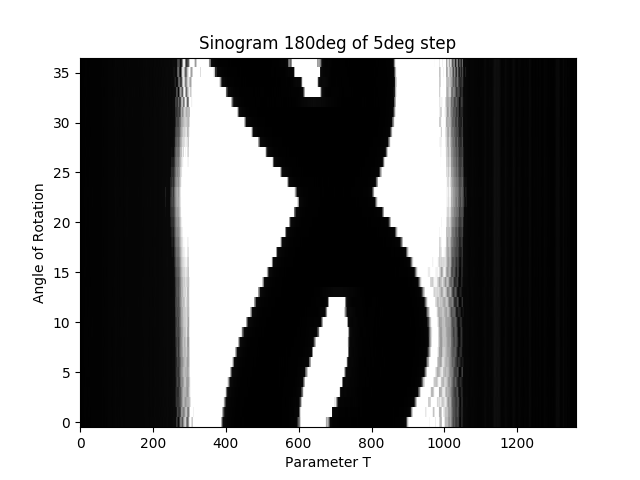
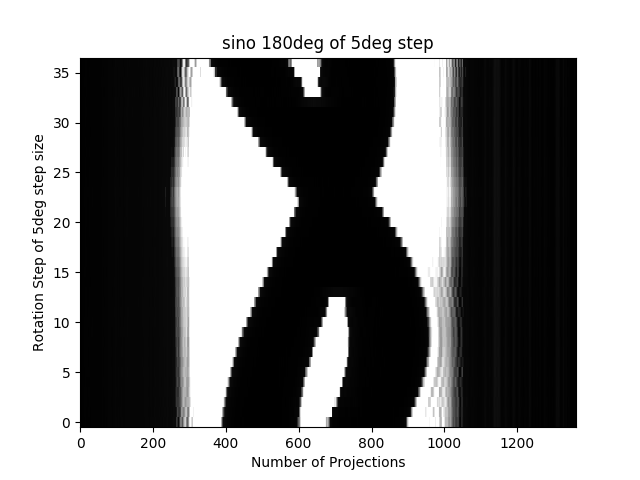
Changed filter

Changed region(s): [[0.3125, 0.0625, 0.7188, 0.125], [0.0312, 0.2812, 0.0938, 0.75], [0.375, 0.9375, 0.625, 1.0]]

diff --git a/sinogram_plot.py b/sinogram_plot.py
@@ -13,7 +13,7 @@ def add_noise(sinogram, mean, std_dev, reduce_dose):
 
 	return noisy_image
 
-def filtered_sino(sinogram, param_a, _bool_plot):
+def filtered_sino(sinogram, param_a):
 	# Function to remove high frequency noise from the sinogram
 	# returns a sinogram [n x m]
 
@@ -23,10 +23,10 @@ def filtered_sino(sinogram, param_a, _bool_plot):
 	# ramp filter
 	step_size = 2*np.pi/sinogram.shape[0]
 	w = np.arange(-np.pi, np.pi, step_size)
-	ramp_filter = abs(2/a*np.sin(a*w/2))
+	#ramp_filter = abs(2/a*np.sin(a*w/2))
 	# sinc filter
 	sinc_filter = np.sin(a*w/2)/(a*w/2) 
-	filter_proj = ramp_filter * sinc_filter**2
+	filter_proj = 2*sinc_filter - sinc_filter**2
 
 	fourier_filt = fftshift(filter_proj)
 	for i in range(sinogram.shape[1]):
@@ -34,16 +34,9 @@ def filtered_sino(sinogram, param_a, _bool_plot):
 		temp_sino = fourier_sino * fourier_filt
 		filt_sino[:,i] = np.real(ifft(temp_sino))
 
-	if _bool_plot == True:
-		plt.imshow(filt_sino.T, cmap='gray', aspect='auto', origin = 'lower')
-		plt.title('Filtered Sinogram Image')
-		plt.xlabel('Number of Projections')
-		plt.ylabel('Angle of Rotation')
-		plt.show()
-
 	return filt_sino
 
-def back_proj(sinogram, theta, _bool_plot):
+def back_proj(sinogram, theta):
 	# Function to produce a backprojection image from the sinogram given at the angle theta
 	# Returns an matrix [n x n]
 	theta_rad = theta*np.pi/180 #np.cos/sin only accepts rads
@@ -69,26 +62,19 @@ def back_proj(sinogram, theta, _bool_plot):
 	temp_sino = sinogram[:,theta]
 
 	back_proj_image[x0, y0] = temp_sino[l_rot[x0, y0]]
-	
-	if _bool_plot == True:
-		# print(back_proj_image)
-		plt.imshow(back_proj_image, cmap='gray', aspect='auto', origin = 'lower')
-		plt.title('Back Proj Image at degree')
-		plt.xlabel('Number of Projections')
-		plt.ylabel('Angle of Rotation')
-		plt.show()
+
 	return back_proj_image
 
-def recon_back_proj(sinogram, angles):
+def recon_back_proj(sinogram, num_rotations):
 	# Reconstructs the original image from all the backprojection images 
 	# Returns an matrix [n x n]
 	length = sinogram.shape[0]
 	recon_matrix = np.zeros((length, length))
 
-	if angles > sinogram.shape[1]:
+	if num_rotations > sinogram.shape[1]:
 		num_angles = sinogram.shape[1]
 	else:
-		num_angles = angles
+		num_angles = num_rotations
 
 	for theta in range(num_angles):
 		proj_image = back_proj(sinogram, theta, 0)
@@ -111,7 +97,7 @@ sino_360_5 = np.loadtxt("360_5.txt", dtype='f', delimiter = '\t')
 
 sino_1 = plt.imread("sino1.bmp")
 
-
+'''
 recon_back_proj(sino_1, 180)
 
 sino_1_noise1 = add_noise(sino_1, 0, 1, 1)
@@ -148,7 +134,7 @@ plt.title('sino1 with added noise')
 plt.xlabel('Number of Projections')
 plt.ylabel('Angle of Rotation')
 plt.show()
-
+'''
 
 #print(sino_90_1)
 #print(sino_90_5)
@@ -156,27 +142,27 @@ plt.show()
 #print(sino_360_1)
 #print(sino_360_5)
 
-'''
+
 # Transpose the dataset so that degrees is the y-axis and intensity? is the x-axis
-plt.imshow(sino_360_1.T, cmap='gray', aspect='auto', origin = 'lower')
-plt.title('sino 90deg of 1deg step')
+plt.imshow(sino_360_5.T, cmap='gray', aspect='auto', origin = 'lower')
+plt.title('sino 3600deg of 5deg step')
 plt.xlabel('Number of Projections')
-plt.ylabel('Angle of Rotation')
+plt.ylabel('Rotation Step of 5deg step size')
 plt.show()
-'''
+
 
 #back_proj(sino_360_5, 72, 1)
 #back_proj(sino_90_1, 15, 1)
 #back_proj(sino_180_5, 18, 1)
 #back_proj(sino_360_1, 57, 1)
 #recon_back_proj(sino_360_1, 360)
-'''
-filt_sino_1 = filtered_sino(sino_360_1, 0.00000001, True )
-filt_sino_2 = filtered_sino(sino_360_1, 0.1, True )
-filt_sino_3 = filtered_sino(sino_360_1, 100.0, True )
+
+filt_sino_1 = filtered_sino(sino_360_1, 0.00000001 )
+filt_sino_2 = filtered_sino(sino_360_1, 0.1)
+filt_sino_3 = filtered_sino(sino_360_1, 100.0 )
 recon_back_proj(filt_sino_1, 360)
 recon_back_proj(filt_sino_2, 360)
 recon_back_proj(filt_sino_3, 360)
-'''
+
 
 	
